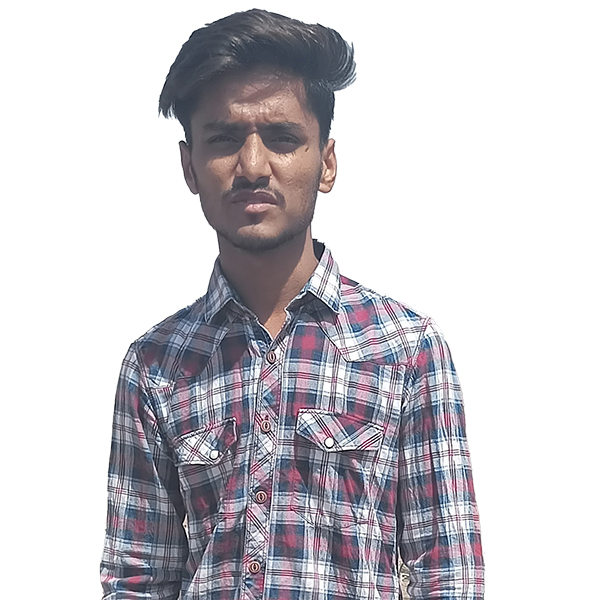
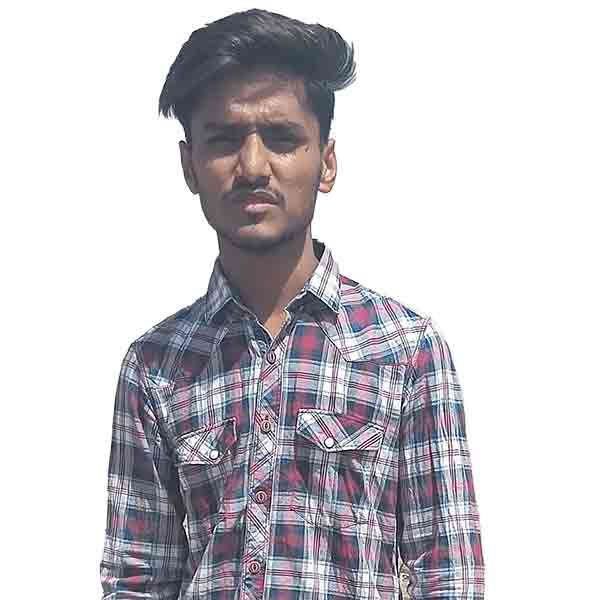
Img web convert

diff --git a/index.html b/index.html
@@ -1041,7 +1041,7 @@
           <div class="col-lg-3 col-md-6 d-flex align-items-stretch" data-aos="fade-up" data-aos-delay="400">
             <div class="member">
               <div class="member-img">
-                <img src="assets/img/team/team-3.png" class="img-fluid" alt="Aastha Sexena"/>
+                <img src="assets/img/team/team-3.jpg" class="img-fluid" alt="Aastha Sexena"/>
                 <div class="social">
                   <a href=""><i class="bi bi-twitter"></i></a>
                   <a href=""><i class="bi bi-github"></i></a>
